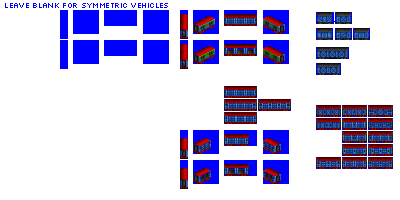
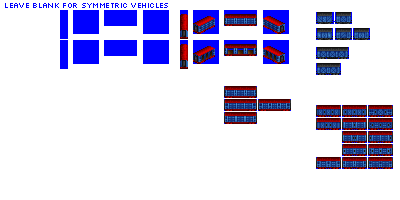
Change: sprites complete for gen 4C, 5C, 6C express cars

diff --git a/src/vehicles/express_cars.py b/src/vehicles/express_cars.py
@@ -82,7 +82,7 @@ def main():
                              base_numeric_id=3220,
                              gen=4,
                              subtype='C',
-                             sprites_complete=False)
+                             sprites_complete=True)
 
     consist.add_unit(type=ExpressCar,
                      vehicle_length=8,
@@ -114,7 +114,7 @@ def main():
                              base_numeric_id=3240,
                              gen=5,
                              subtype='C',
-                             sprites_complete=False)
+                             sprites_complete=True)
 
     consist.add_unit(type=ExpressCar,
                      vehicle_length=8,
@@ -144,7 +144,7 @@ def main():
                              base_numeric_id=3230,
                              gen=6,
                              subtype='C',
-                             sprites_complete=False)
+                             sprites_complete=True)
 
     consist.add_unit(type=ExpressCar,
                      vehicle_length=8,
